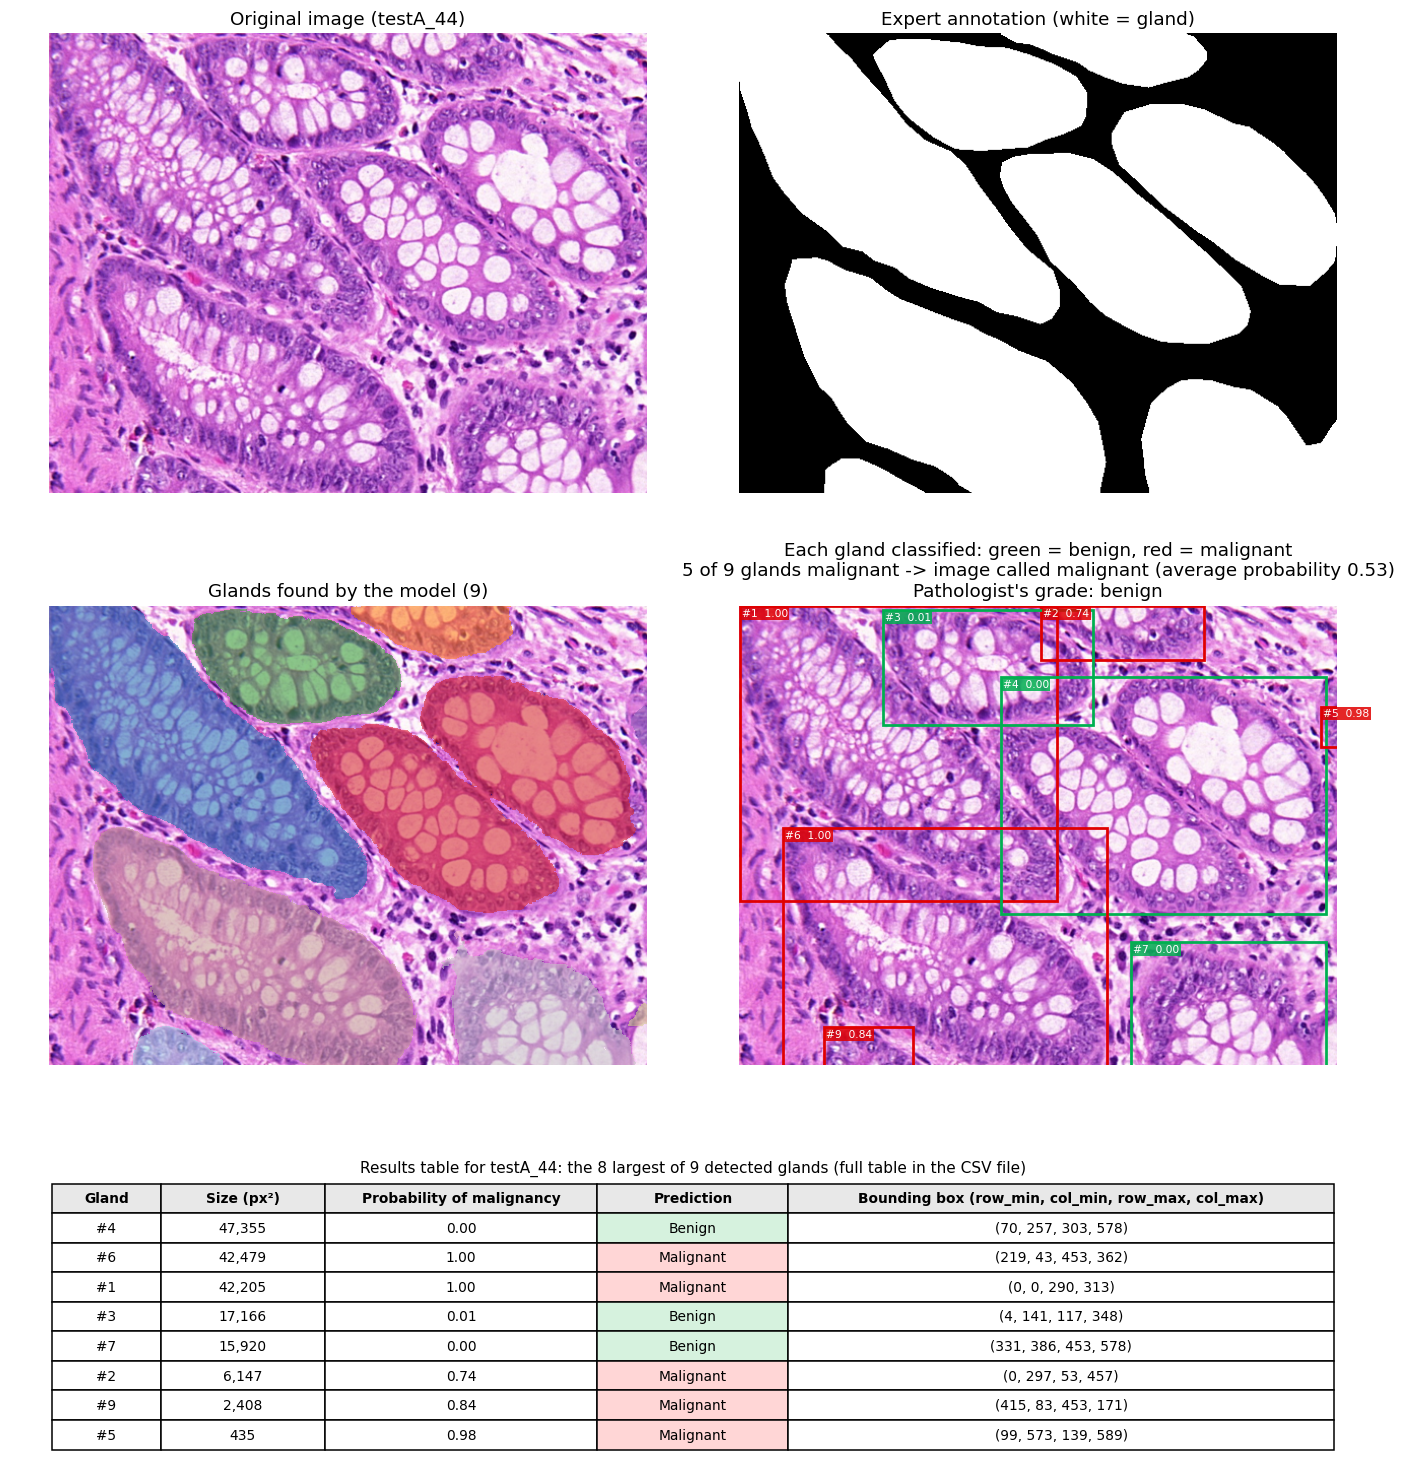
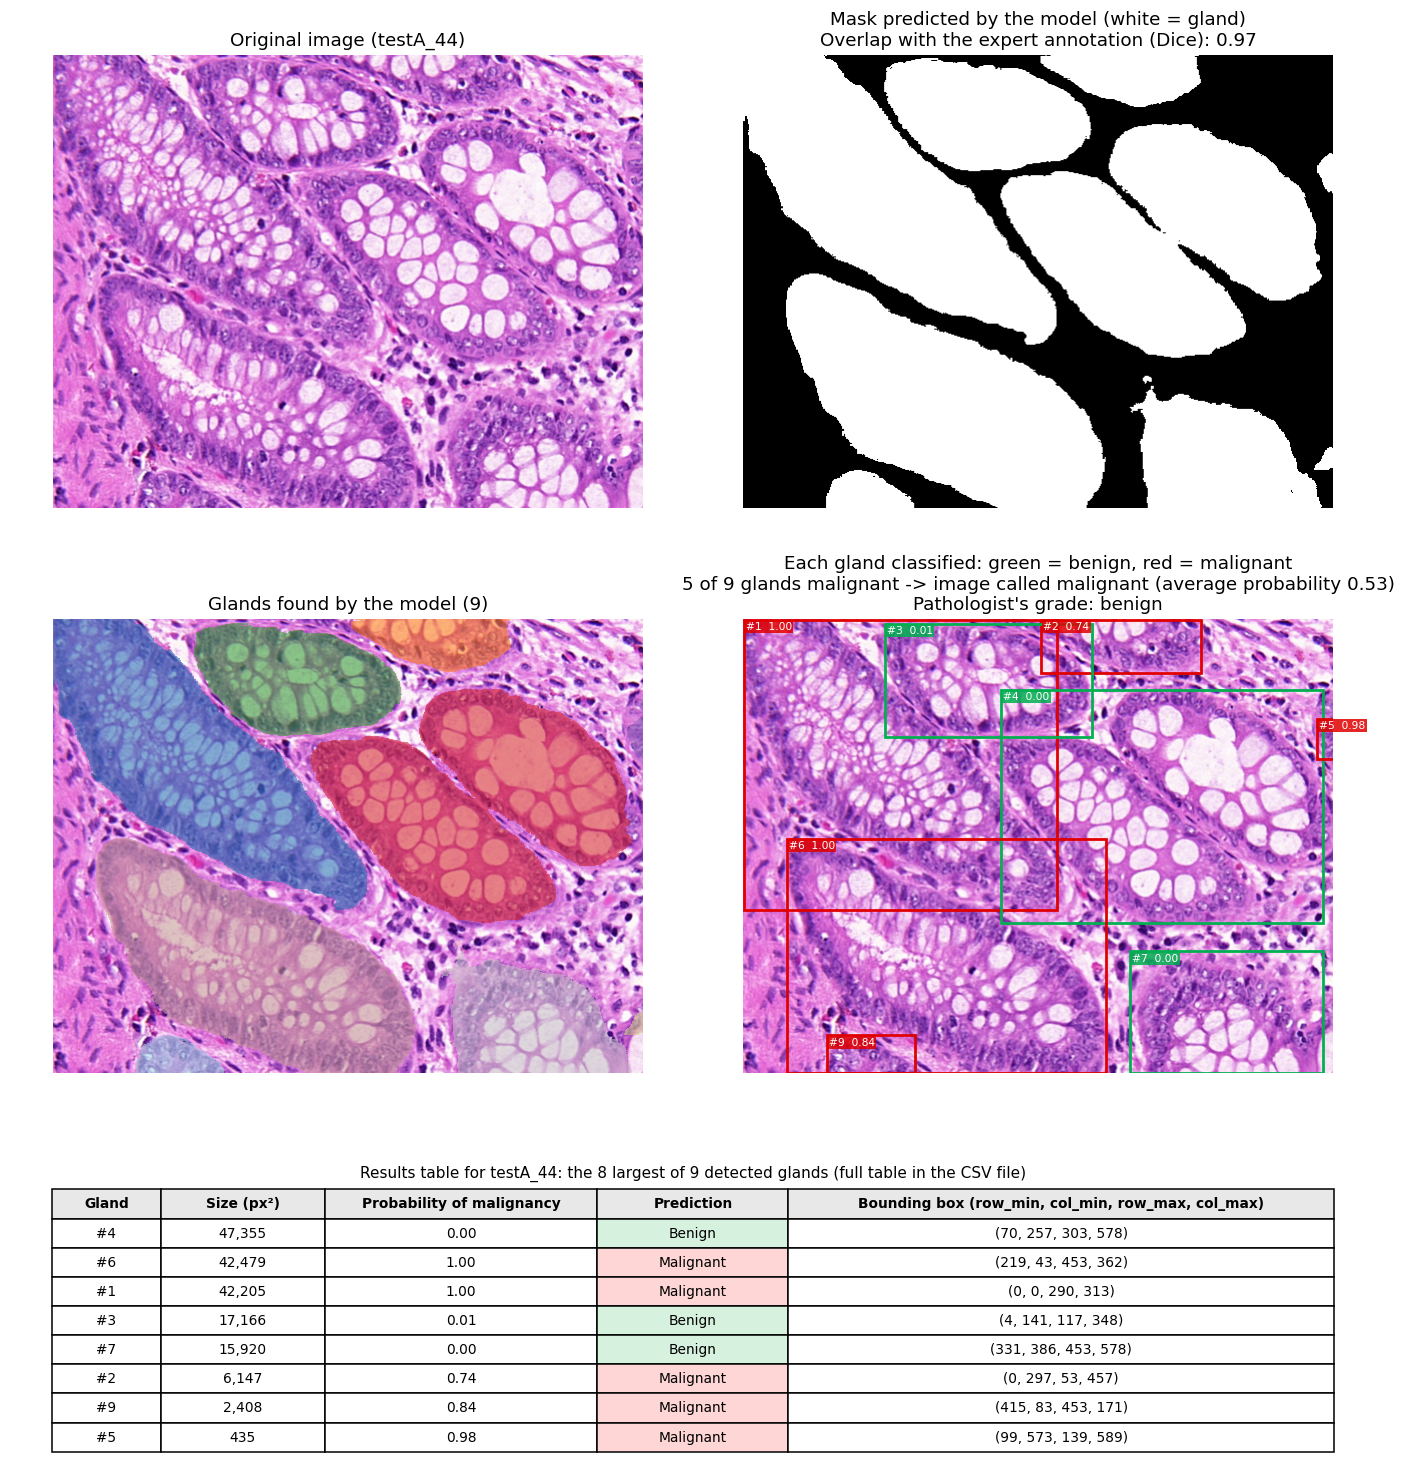
Show the predicted mask in the figure; annotation and grade are optional
- top-right panel is now the model's predicted mask (Dice vs expert shown only when an annotation exists)
- glandnet-visualize accepts --images for arbitrary unannotated slides
- summary/figure omit pathologist grade when unavailable; tests added (26)

diff --git a/src/glandnet/visualize.py b/src/glandnet/visualize.py
@@ -6,6 +6,9 @@ the figure and saved as CSV, plus one `summary.csv` with the image-level verdict
 
     glandnet-visualize --data-root data --seg-checkpoint models/unet4l.pth --cls-checkpoint models/gland_classifier_effb0.pth \
         --metrics results/segmentation_metrics.json --names testA_2 testB_8 --out assets --tables results/examples
+
+Works on any image: pass `--images path/to/slide.png` instead of `--names`. Expert annotations and pathologist grades are
+optional extras; when they are missing the figure simply omits those lines.
 """
 import argparse
 import json
@@ -22,6 +25,7 @@ from matplotlib.patches import Rectangle
 
 from .classifier import crops_from_labels, load_classifier, predict, read_grades
 from .data import IMG_SIZE, load_image, load_mask, normalize, resize_image
+from .metrics import dice_pixel
 from .model import UNet4L, pick_device
 from .postprocess import gland_instances, predict_prob_map, segment
 
@@ -62,11 +66,12 @@ def glands_table(glands, name: str, thr: float = 0.5) -> pd.DataFrame:
     return pd.DataFrame(rows)
 
 
-def summary_row(glands, name: str, true_label: int, thr: float = 0.5) -> dict:
+def summary_row(glands, name: str, true_label: int | None = None, thr: float = 0.5) -> dict:
     pred, p = image_verdict(glands, thr)
     return {"image": name, "n_glands": len(glands), "n_glands_malignant": int(sum(g["prob_malignant"] >= thr for g in glands)),
             "mean_p_malignant": round(p, 4), "image_prediction": None if pred is None else GRADE_NAMES[pred],
-            "true_grade": GRADE_NAMES[true_label], "correct": pred == true_label}
+            "true_grade": None if true_label is None else GRADE_NAMES[true_label],
+            "correct": None if true_label is None else pred == true_label}
 
 
 DISPLAY_MIN_AREA = 400  # px; tiny fragments are hidden in the figure only (the image verdict uses every gland)
@@ -105,21 +110,29 @@ def draw_results_table(ax, glands, name, thr: float = 0.5, max_rows: int = 10, m
 
 def render_figure(img, gt_mask, labels, glands, true_label, name, out_path, thr: float = 0.5,
                   min_area: int = DISPLAY_MIN_AREA):
+    """`gt_mask` (expert annotation) and `true_label` (pathologist's grade) are optional (None)."""
     pred_label, p_img = image_verdict(glands, thr)
     fig = plt.figure(figsize=(13, 13.5))
     gs = fig.add_gridspec(3, 2, height_ratios=[1, 1, 0.62])
     ax = [fig.add_subplot(gs[0, 0]), fig.add_subplot(gs[0, 1]), fig.add_subplot(gs[1, 0]), fig.add_subplot(gs[1, 1])]
     ax[0].imshow(img); ax[0].set_title(f"Original image ({name})", fontsize=12)
-    ax[1].imshow(gt_mask, cmap="gray"); ax[1].set_title("Expert annotation (white = gland)", fontsize=12)
+    pred_mask = labels > 0
+    ax[1].imshow(pred_mask, cmap="gray")
+    title = "Mask predicted by the model (white = gland)"
+    if gt_mask is not None:
+        title += f"\nOverlap with the expert annotation (Dice): {dice_pixel(pred_mask, gt_mask > 0):.2f}"
+    ax[1].set_title(title, fontsize=12)
     shown = np.ma.masked_where(labels == 0, labels % 20 + 1)
     ax[2].imshow(img); ax[2].imshow(shown, cmap="tab20", alpha=0.55, interpolation="nearest")
     ax[2].set_title(f"Glands found by the model ({len(glands)})", fontsize=12)
     ax[3].imshow(img); draw_gland_boxes(ax[3], glands, thr, min_area=min_area)
     n_mal = sum(g["prob_malignant"] >= thr for g in glands)
     verdict = "n/a" if pred_label is None else f"{GRADE_NAMES[pred_label]} (average probability {p_img:.2f})"
-    ax[3].set_title(f"Each gland classified: green = benign, red = malignant\n"
-                    f"{n_mal} of {len(glands)} glands malignant -> image called {verdict}\n"
-                    f"Pathologist's grade: {GRADE_NAMES[true_label]}", fontsize=12)
+    t3 = (f"Each gland classified: green = benign, red = malignant\n"
+          f"{n_mal} of {len(glands)} glands malignant -> image called {verdict}")
+    if true_label is not None:
+        t3 += f"\nPathologist's grade: {GRADE_NAMES[true_label]}"
+    ax[3].set_title(t3, fontsize=12)
     for a_ in ax:
         a_.axis("off")
     draw_results_table(fig.add_subplot(gs[2, :]), glands, name, thr, min_area=min_area)
@@ -137,7 +150,8 @@ def main():
     ap.add_argument("--seg-checkpoint", required=True)
     ap.add_argument("--cls-checkpoint", required=True)
     ap.add_argument("--metrics", default="results/segmentation_metrics.json", help="holds the validation-selected post-processing params")
-    ap.add_argument("--names", nargs="+", required=True, help="test image names, e.g. testA_2 testB_8")
+    ap.add_argument("--names", nargs="*", default=[], help="GlaS image names, e.g. testA_2 testB_8 (annotation and grade are used if available)")
+    ap.add_argument("--images", nargs="*", default=[], help="paths to any other images (no annotation / grade needed)")
     ap.add_argument("--out", default="assets", help="folder for the PNG figures")
     ap.add_argument("--tables", default="results/examples", help="folder for the per-image CSV tables and summary.csv")
     a = ap.parse_args()
@@ -147,18 +161,24 @@ def main():
     cls = load_classifier(a.cls_checkpoint, device)
     grades = read_grades(a.data_root).set_index("name")
     root = Path(a.data_root)
-    summary = []
+    if not (a.names or a.images):
+        ap.error("give at least one of --names or --images")
+    items = []
     for n in a.names:
         d = "train" if n.startswith("train") else "test"
-        img = load_image(root / d / "images" / f"{n}.bmp")
-        gt = load_mask(root / d / "masks" / f"{n}_anno.bmp")
+        mpath = root / d / "masks" / f"{n}_anno.bmp"
+        items.append((n, load_image(root / d / "images" / f"{n}.bmp"), load_mask(mpath) if mpath.exists() else None,
+                      int(grades.loc[n, "label"]) if n in grades.index else None))
+    for pth in a.images:
+        items.append((Path(pth).stem, load_image(pth), None, None))
+    summary = []
+    Path(a.tables).mkdir(parents=True, exist_ok=True)
+    for n, img, gt, true in items:
         labels, glands = run_pipeline(img, seg, cls, device, params)
-        true = int(grades.loc[n, "label"])
         pred, p = render_figure(img, gt, labels, glands, true, n, Path(a.out) / f"pipeline_{n}.png")
-        Path(a.tables).mkdir(parents=True, exist_ok=True)
         glands_table(glands, n).to_csv(Path(a.tables) / f"{n}_glands.csv", index=False)
         summary.append(summary_row(glands, n, true))
-        print(n, "true:", GRADE_NAMES[int(grades.loc[n, 'label'])], "pred:", None if pred is None else GRADE_NAMES[pred], f"p={p:.2f}", f"glands={len(glands)}")
+        print(n, "true:", None if true is None else GRADE_NAMES[true], "pred:", None if pred is None else GRADE_NAMES[pred], f"p={p:.2f}", f"glands={len(glands)}")
     pd.DataFrame(summary).to_csv(Path(a.tables) / "summary.csv", index=False)
 
 

diff --git a/tests/test_visualize.py b/tests/test_visualize.py
@@ -47,3 +47,17 @@ def test_glands_table_and_summary_row():
     assert {"image", "gland", "size_px2", "row_min", "col_max", "p_malignant"} <= set(t.columns)
     s = summary_row(gl, "testX", true_label=1)
     assert s["n_glands"] == 3 and s["n_glands_malignant"] == 2 and s["correct"] is True and s["true_grade"] == "malignant"
+
+
+def test_figure_works_without_annotation_or_grade(tmp_path):
+    img = np.random.randint(0, 255, (100, 120, 3), np.uint8)
+    labels = np.zeros((100, 120), np.int32); labels[10:40, 10:40] = 1
+    out = tmp_path / "noannot.png"
+    pred, p = render_figure(img, None, labels, [dict(g, id=i + 1) for i, g in enumerate(G)], None, "unlabelled", out)
+    assert out.exists() and pred == 1
+
+
+def test_summary_row_without_grade():
+    from glandnet.visualize import summary_row
+    s = summary_row([dict(G[0], id=1)], "x", None)
+    assert s["true_grade"] is None and s["correct"] is None

diff --git a/README.md b/README.md
@@ -22,9 +22,9 @@ For every tissue image you get **a figure** and **a table**.
 
 ![Example result: malignant tissue](assets/pipeline_testA_59.png)
 
-*How to read the figure.* Top row: the original image and the outline drawn by human experts (the "answer key"). Middle row, left: the glands the model found.
+*How to read the figure.* Top row: the original image and **the gland mask the model predicts** (white = gland). If the image comes with an expert's hand-drawn outline, the title also shows how closely the two overlap (Dice); with a new, unannotated image that line simply isn't there. Middle row, left: the glands the model found, each in its own colour.
 Middle row, right: each gland in a box — **green means the model thinks it is benign, red means it thinks it is malignant** — with the gland's number and its probability of malignancy.
-The image gets one overall verdict: the average of all its glands. Bottom: a table with the numbers behind every box.
+The image gets one overall verdict: the average of all its glands (and, when the dataset provides it, the pathologist's grade for comparison). Bottom: a table with the numbers behind every box.
 
 The same table is saved as a spreadsheet (`results/examples/<image>_glands.csv`), so you can use it without opening the picture:
 
@@ -34,7 +34,7 @@ The same table is saved as a spreadsheet (`results/examples/<image>_glands.csv`)
 | 3 | 45,856 | (0, 386, 282, 673) | 1.00 | malignant |
 | … | … | … | … | … |
 
-And `results/examples/summary.csv` has one line per image — how many glands were found, how many were called malignant, the image verdict, the pathologist's grade, and whether the model got it right:
+And `results/examples/summary.csv` has one line per image — how many glands were found, how many were called malignant and the image verdict. For images that come with a pathologist's grade, it also says whether the model got it right (otherwise those columns are left empty):
 
 | image | glands found | called malignant | verdict | pathologist's grade | correct? |
 |---|---|---|---|---|---|
@@ -103,7 +103,8 @@ glandnet-classify  --data-root data --pred-dir predictions --out results   # 3. 
 glandnet-visualize --data-root data --seg-checkpoint models/unet4l.pth \
                    --cls-checkpoint models/gland_classifier_effb0.pth \
                    --names testA_59 testB_11 --out assets --tables results/examples   # 4. figures + tables
-pytest -q                                                    # 24 automated tests
+glandnet-visualize ... --images my_slide.png ...             # also works on any new image, no annotation needed
+pytest -q                                                    # 26 automated tests
 ```
 
 **Data:** the *GlaS* challenge dataset (Warwick-QU, 165 colon-tissue images with expert outlines). It is not included here; download it from the challenge page.
